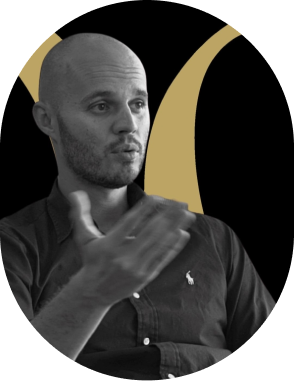
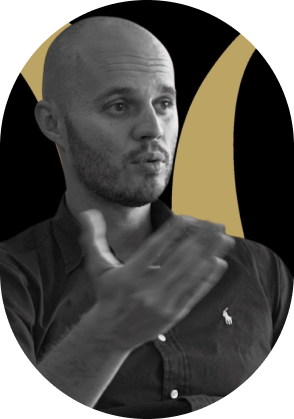
changed slideshow text, background, link

diff --git a/index.html b/index.html
@@ -178,26 +178,28 @@
                 <p>Netokracijina glavna urednica Mia Biberović i osnivač Ivan Brezak Brkan
                  u tjednom podcastu komentiraju najvažnije događaje u digitalnoj industriji
                 o kojima niste ni znali da želite znati više!</p>
+                <a class="podcast-link" href="https://open.spotify.com/show/1JeEKPdFXJopMUEPXucMUK" target="_blank"><img src="./images/spotify.png" /></a>
           </div>
         </div>
 
         <div class="mySlides fade">
           <img class="snima-slika" src="./images/snima-lood.png">
           <div class="snima-text">
-            <h3>LOOD by Vinko Mihaljević</h3>
+            <h3>LOOD podcast</h3>
             <p>Podcast u kojem osnivač LOOD-a Vinko Mihaljević istražuje koncept uspjeha s ljudima različitih životnih stilova.
-                   Otkrij ideje koje ih vode na njihovom autentičnom putu.
-                       Epizode su na engleskom i hrvatskom jeziku. Uživaj!</p>
+               Otkrij ideje koje ih vode na njihovom autentičnom putu. Epizode su na engleskom i hrvatskom jeziku. Uživaj!</p>
+            <a class="podcast-link" href="https://open.spotify.com/show/5vZr1MvvzwVho2rWkdp9Er" target="_blank"><img src="./images/spotify.png" /></a>
           </div>
         </div>
 
         <div class="mySlides fade">
           <img class="snima-slika" src="./images/snima-lea-kosovic.png">
           <div class="snima-text">
-            <h3>Eventualno – podcast o eventima</h3>
+            <h3>Eventualno</h3>
             <p>Prvi pravi podcast o eventima na kojem će se pričati o najčešćim izazovima, problemima i rješenjima te
               o aktualnim situacijama koje su utjecale na cijelu industriju.
             </p>
+            <a class="podcast-link" href="https://open.spotify.com/show/64MEkM4pTwoAcSBXacD2af" target="_blank"><img src="./images/spotify.png" /></a>
           </div>
         </div>
 
@@ -207,6 +209,7 @@
             <h3>Štimac centar dentalne medicine</h3>
             <p>Svakog tjedna iz našeg studija sada već dobro poznata lica naših doktora donose vam najnovije informacije, savjete i odgovore
               na pitanja koje nećete nigdje drugdje čuti.</p>
+            <a class="podcast-link" href="https://www.youtube.com/c/dr%C5%A1timac?app=desktop" target="_blank"><img src="./images/youtube.png" /></a>
           </div>
         </div>
 
@@ -214,10 +217,8 @@
           <img class="snima-slika" src="./images/snima-planetopija.png">
           <div class="snima-text">
             <h3>Planetopija</h3>
-            <p>Welcome to Planetopija podcast! We are a Croatian publisher devoted to the love for books and the
-              planet Earth. Here we shall be talking to our authors and dear guests about all matters that soothe
-              and nourish our mind and soul, starting from books and extending into the magical unknown that every
-              real conversation brings. </p>
+            <p>Dobrodošli na Planetopija podcast! Mi smo hrvatski izdavač posvećen ljubavi prema knjigama i planetu Zemlji.</p>
+            <a class="podcast-link" href="https://open.spotify.com/show/1cIjX4CwcVjWwEChymMXOH" target="_blank"><img src="./images/spotify.png" /></a>
           </div>
         </div>
 
@@ -225,8 +226,8 @@
           <img class="snima-slika" src="./images/snima-how-could-she.png">
           <div class="snima-text">
             <h3>How Could She</h3>
-            <p>Listen to Anika De Vilera discuss interesting topics with high profile guests on the How Could She Podcast.
-              Topics include human rights, female rights, and media abuse.</p>
+            <p>Anika de vilera raspravlja o zanimljivim temama s istaknutim gostima na How Could She podcastu. Neke od tema su ljudska prava, ženska prava i zloporaba medija.</p>
+            <a class="podcast-link" href="https://podcasts.apple.com/mt/podcast/mindful-episode/id1602061911?i=1000556859441" target="_blank"><img src="./images/apple.png" /></a>
           </div>
         </div>
 
@@ -235,6 +236,7 @@
           <div class="snima-text">
             <h3>Osvrtnik</h3>
             <p>Ja sam Osvrtnik, radim osvrte filmova i serija.</p>
+            <a class="podcast-link" href="https://www.youtube.com/c/osvrtnik" target="_blank"><img src="./images/youtube.png" /></a>
           </div>
         </div>
 
@@ -244,6 +246,7 @@
             <h3>Podkassst</h3>
             <p>Podkassst je casual razgovor sa umjetnicima i znanstvenicima u kojem pokušavamo
               otkriti tajnu uspjeha njihovih zanata. S vama su Luka Fućek - Fule i Anton Premec - Toni Zmija!</p>
+            <a class="podcast-link" href="https://www.deezer.com/hr/show/2304172" target="_blank"><img src="./images/deezer.png" /></a>
           </div>
         </div>
 
@@ -252,6 +255,7 @@
           <div class="snima-text">
             <h3>KAZINI7MERCI</h3>
             <p>Projekt Kazimira Ilijaša u kojem se raspravlja o sportskim temama. Gosti su izvrsni kao i kompletna stručna ekipa.</p>
+            <a class="podcast-link" href="https://www.youtube.com/channel/UCunoZCJSZe4FZvyQtWU7I1g/videos" target="_blank"><img src="./images/youtube.png" /></a>
           </div>
         </div>
 

diff --git a/styles.css b/styles.css
@@ -395,6 +395,15 @@ h1 {
   font-size: 3.5rem;
 }
 
+#tko-snima .snima-text img {
+  width: 7rem;
+  margin-left: 4rem;
+  margin-top: 1rem;
+  position: relative;
+  bottom: 1%;
+  right: 1%;
+}
+
 
 /* Slideshow container */
 .slideshow-container {
@@ -449,6 +458,9 @@ h1 {
   background-color: #f8f8f8;
   display: flex;
   flex-direction: column;
+  background-image: url("./images/shape-bkg.png");
+  background-repeat: no-repeat;
+  background-position: 14% 50%;
 }
 
 /* Next & previous buttons */
